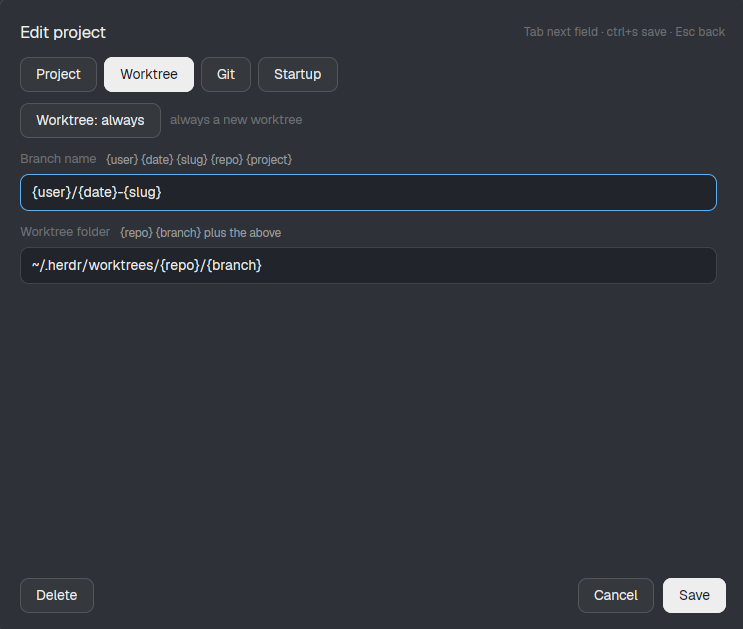
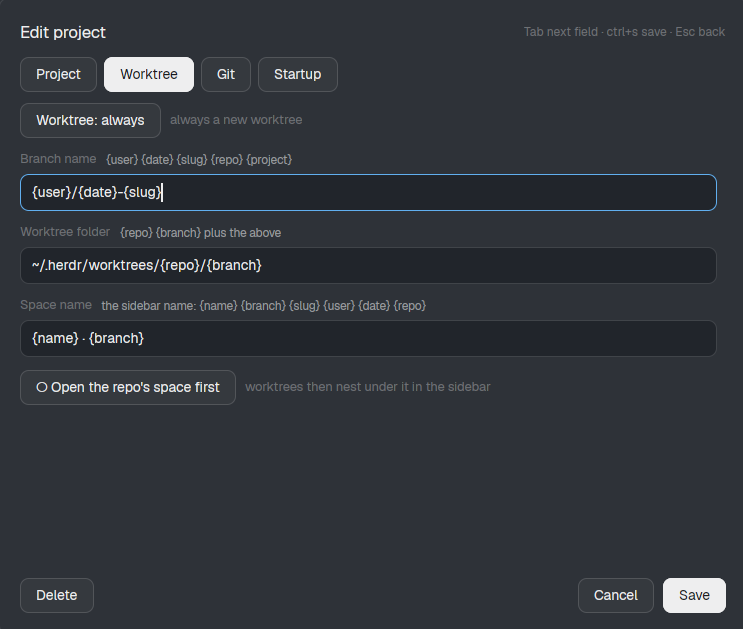
Add worktree space name and an option to open the repo's space first
Each project's Worktree section gets a Space name template and an Open the repo's space first toggle, so worktree spaces can be named shorter and nest under their repo in the sidebar. Both default to the old behavior. Adds tests, a README section and screenshot, and RECIPE.md updates.

Changed region(s): [[0.031, 0.4833, 0.5882, 0.5437], [0.031, 0.6041, 0.6501, 0.6343]]

diff --git a/mods/project-presets/main.js b/mods/project-presets/main.js
@@ -6,7 +6,7 @@ import { View, div } from "gpui-kit";
 import { v_flex, h_flex, InputState, Input, Scrollbar, VirtualListScrollHandle, v_virtual_list } from "gpui-base";
 import { knownAgents, window, theme, props, closeOverlay, run, pickFolder, shared, setShared, home } from "herdr";
 import { loadConfig, saveConfig } from "./config.js";
-import { inspect, projectFolder, previewBranch, createWorktree, listWorktrees, removeWorktree, prepareMain, runSetup, findSpace, launch } from "./git.js";
+import { inspect, projectFolder, previewBranch, createWorktree, worktreeSpaceName, listWorktrees, removeWorktree, prepareMain, runSetup, findSpace, launch } from "./git.js";
 import { readDemo } from "./demo.js";
 import { initLog, log, logError } from "./log.js";
 import { fuzzy, blankProject, shortHome, splitList, joinList, basename } from "./lib.js";
@@ -21,7 +21,7 @@ const ROW = 48;
 const SECTIONS = [["project", "Project"], ["worktree", "Worktree"], ["git", "Git"], ["startup", "Startup"]];
 const SECTION_FIELDS = {
   project: ["name", "path", "group"],
-  worktree: ["branchTemplate", "root"],
+  worktree: ["branchTemplate", "root", "spaceName"],
   git: ["remote", "base"],
   startup: ["agent", "args", "prompt", "setup", "tabs"],
 };
@@ -35,6 +35,7 @@ const TEXT = [
   ["group", "Group", (p) => p.group, (p, v) => (p.group = v)],
   ["branchTemplate", "Branch name", (p) => p.worktree.branchTemplate, (p, v) => (p.worktree.branchTemplate = v), "{user} {date} {slug} {repo} {project}"],
   ["root", "Worktree folder", (p) => p.worktree.root, (p, v) => (p.worktree.root = v), "{repo} {branch} plus the above"],
+  ["spaceName", "Space name", (p) => p.worktree.spaceName, (p, v) => (p.worktree.spaceName = v), "the sidebar name: {name} {branch} {slug} {user} {date} {repo}"],
   ["remote", "Remote", (p) => p.git.remote, (p, v) => (p.git.remote = v)],
   ["base", "Base branch", (p) => p.git.base, (p, v) => (p.git.base = v)],
   ["agent", "Agent command", (p) => p.startup.agent, (p, v) => (p.startup.agent = v), "pick above or type one; empty: plain shell"],
@@ -196,7 +197,7 @@ export default class ProjectPresets extends View {
         if (worktree) {
           const wt = await createWorktree(p, slugText, log);
           folder = wt.folder;
-          name = `${p.name} · ${wt.branch}`;
+          name = worktreeSpaceName(p, wt);
           await runSetup(p, folder, log);
         } else if (existing) {
           setShared(RECENT, { ...(shared(RECENT) ?? {}), [p.path]: Date.now() });
@@ -580,6 +581,10 @@ export default class ProjectPresets extends View {
           .child(div().text_size(11.5).text_color(t.dim).child(MODE_HELP[d.worktree.mode])),
         field("branchTemplate"),
         field("root"),
+        field("spaceName"),
+        h_flex().pt(12).gap(8).items_center()
+          .child(toggle("pp-repospace", "Open the repo's space first", d.worktree.repoSpace, (v) => (d.worktree.repoSpace = v)))
+          .child(div().flex_1().min_w(0).text_size(11.5).text_color(t.dim).child("worktrees then nest under it in the sidebar")),
       ],
       git: () => [
         h_flex().pt(10).gap(8)

diff --git a/mods/project-presets/git.js b/mods/project-presets/git.js
@@ -50,6 +50,7 @@ export async function templateVars(project, slugText) {
     slug: slug(slugText) || timeStamp(),
     repo: basename(top),
     project: slug(project.name),
+    name: project.name,
   };
 }
 
@@ -102,7 +103,7 @@ export async function createWorktree(project, slugText, log) {
   log(`git worktree add ${branch} from ${base}…`);
   const r = await git(folder, ["worktree", "add", "--no-track", "-b", branch, path, base]);
   if (r.code !== 0) throw new Error(out({ stdout: r.stderr }) || "git worktree add failed");
-  return { folder: path, branch };
+  return { folder: path, branch, vars };
 }
 
 /** The main checkout, brought up to date when fast-forward is on and that's safe. */
@@ -134,6 +135,12 @@ export async function runSetup(project, folder, log) {
 export const findSpace = (project) => spaces().find((s) => !s.machine && s.folder === projectFolder(project));
 
 /** Opens the folder as a space, with the project's agent, first prompt and extra tabs. */
+/** The sidebar name for a worktree's space, from the project's template; falls back to "<name> · <branch>". */
+export function worktreeSpaceName(project, wt) {
+  const name = expand(project.worktree.spaceName, { ...wt.vars, branch: wt.branch }).trim();
+  return name || `${project.name} · ${wt.branch}`;
+}
+
 export async function launch(project, folder, name) {
   const { agent, args, prompt, promptMode, tabs } = project.startup;
   const argv = agent.trim() ? [...splitArgs(agent), ...splitArgs(args)] : [];
@@ -142,6 +149,12 @@ export async function launch(project, folder, name) {
   // that read a positional argument as a subcommand).
   const send = argv.length && prompt && promptMode === "send";
   const known = send ? new Set((await liveTerminals()).map((t) => t.address)) : null;
+  // Herdr nests a worktree's space under its repo's own space, but only while that one is open.
+  const main = projectFolder(project);
+  if (project.worktree.repoSpace && folder !== main && !findSpace(project)) {
+    log("debug", "opening the repo's space first", { main });
+    run("space.new", { name: project.name, folder: main });
+  }
   log("debug", "launch", { folder, name, argv, promptMode, tabs });
   run("space.new", { name, folder, ...(argv.length ? { argv, ...(prompt && !send ? { task: prompt } : {}) } : {}) });
   const space = focused()?.space;

diff --git a/mods/project-presets/lib.js b/mods/project-presets/lib.js
@@ -69,7 +69,13 @@ export function blankProject(path = "") {
     path,
     group: "",
     pinned: false,
-    worktree: { mode: "ask", branchTemplate: "{user}/{date}-{slug}", root: "~/.herdr/worktrees/{repo}/{branch}" },
+    worktree: {
+      mode: "ask",
+      branchTemplate: "{user}/{date}-{slug}",
+      root: "~/.herdr/worktrees/{repo}/{branch}",
+      spaceName: "{name} · {branch}",
+      repoSpace: false,
+    },
     git: { fetch: true, remote: "origin", base: "main", fastForward: false },
     startup: { agent: "", args: "", prompt: "", promptMode: "arg", setup: [], tabs: [] },
   };

diff --git a/RECIPE.md b/RECIPE.md
@@ -15,7 +15,7 @@ A popup, 680px wide, top-aligned 40px down, up to 80% of the window high, on the
 
 Ordering with an empty search: projects with an open space, pinned ones, recently used, then by name. With a query: best fuzzy match first (subsequence match on name, group and folder name; consecutive and word-start letters score higher).
 
-The editor replaces the list in the same popup, in four sections chosen by buttons under the title. **Project:** Name, Folder (+ Browse…), Group, Pin to top. **Worktree:** the mode button (ask / always / never), Branch name, Worktree folder. **Git:** Fetch first, Fast-forward checkout, Remote, Base branch. **Startup:** an Agent button per installed agent from `knownAgents()` plus Shell, Agent command, Agent arguments, First prompt with a Prompt delivery button, Setup commands, Extra tabs. Buttons: Delete (asks for a second click), Cancel, Save. Tab moves between the fields of the current section.
+The editor replaces the list in the same popup, in four sections chosen by buttons under the title. **Project:** Name, Folder (+ Browse…), Group, Pin to top. **Worktree:** the mode button (ask / always / never), Branch name, Worktree folder, Space name, and an "Open the repo's space first" toggle. **Git:** Fetch first, Fast-forward checkout, Remote, Base branch. **Startup:** an Agent button per installed agent from `knownAgents()` plus Shell, Agent command, Agent arguments, First prompt with a Prompt delivery button, Setup commands, Extra tabs. Buttons: Delete (asks for a second click), Cancel, Save. Tab moves between the fields of the current section.
 
 ## How it behaves
 
@@ -29,6 +29,7 @@ The editor replaces the list in the same popup, in four sections chosen by butto
 - Worktree creation: `git fetch <remote>` (a failure is logged and the local ref is used), then `git worktree add --no-track -b <branch> <folder> <remote>/<base>`. A taken branch or folder gets `-2`, `-3`… up to `-20`.
 - Fast-forward only happens on the checkout when it is on the base branch, clean, and can fast-forward.
 - **Worktree cleanup** has a filter box (fuzzy, on branch and folder name) over a scrolling list of the repo's linked worktrees (`git worktree list --porcelain`, main checkout excluded) with the branch, folder, and badges: `open` (a space shows it), `uncommitted`, `locked`, `merged` (branch is an ancestor of `<remote>/<base>`) or `unmerged`. Enter or a click ticks the highlighted row; m (or Tick merged) ticks every merged, clean, unlocked one, and again unticks them; r (or the Remove button, labelled with the count) asks for confirmation and the second press removes the ticked ones with `git worktree remove` (never `--force`, so dirty ones are refused and reported). A merged branch is then deleted with `git branch -d`; an unmerged one is kept. The space showing a removed worktree is closed with `space.close`.
+- **Space name and repo space** (worktree modes only): the new worktree's space is named from `worktree.spaceName` (variables `{name}` the project's display name, `{branch}`, `{slug}`, `{user}`, `{date}`, `{repo}`; an empty result falls back to `<name> · <branch>`). When `worktree.repoSpace` is on and no space shows the project's main checkout, a plain-shell space named after the project is opened on it first, then the worktree space, which herdr nests under it. If the repo's space is already open nothing extra is created.
 - **Delete** (the button or **d**) shows "Remove \"<name>\" from the list?" in red; pressing d or clicking Delete again removes the project from `project-presets.json`, any other key cancels. The folder and its worktrees are left alone. The editor's Delete button has its own two-click confirmation.
 - Selecting a project records it in shared state `project-presets.recent` for ordering.
 
@@ -42,7 +43,8 @@ The editor replaces the list in the same popup, in four sections chosen by butto
 { "projects": [{
   "name": "API", "path": "~/code/api", "group": "work", "pinned": true,
   "worktree": { "mode": "ask|always|never", "branchTemplate": "{user}/{date}-{slug}",
-                "root": "~/.herdr/worktrees/{repo}/{branch}" },
+                "root": "~/.herdr/worktrees/{repo}/{branch}",
+                "spaceName": "{name} · {branch}", "repoSpace": false },
   "git": { "fetch": true, "remote": "origin", "base": "main", "fastForward": false },
   "startup": { "agent": "claude", "args": "--model opus", "prompt": "", "promptMode": "arg|send",
                "setup": ["npm ci"], "tabs": ["lazygit"] }
@@ -64,6 +66,7 @@ The editor replaces the list in the same popup, in four sections chosen by butto
 - A failed setup command stops the remaining ones but the space still opens.
 - The first prompt goes to the agent as a command-line argument (`space.new {task}`) by default, which `hermes` and some other agents reject as an unknown subcommand. The Prompt button switches the project to "typed after start": the agent is started bare and the prompt is sent with `hc send` once `hc ls --json` shows it idle (6 s after start if it never reports a status, never while blocked). Picking the Hermes agent button sets this automatically.
 - The agent command and its arguments are split into words, with '…' and "…" keeping spaces together; there's no other shell syntax. The first prompt is only sent when an agent is set.
+- Herdr nests a worktree space under its repo's space only while a space on the main checkout is open (its sidebar groups by git common dir). With `repoSpace` off and no such space open, worktree spaces sit at the top level. Closing the repo's space later makes its worktrees top-level again.
 - Extra tabs rely on the new space being the focused one right after `space.new`; the terminal for a typed prompt is found as the new live terminal that starts in the new folder, so two launches into one folder at once could confuse it.
 - Local folders only: no `machine` field yet.
 - Click handling and `cmd` shortcuts on macOS are untested: Herdr may use some cmd keys itself (e.g. cmd-n), so the buttons are the fallback.
@@ -79,6 +82,7 @@ The editor replaces the list in the same popup, in four sections chosen by butto
 - Selecting the same project again with `always` gives `…-2`, not an error.
 - Worktrees → m → r twice (with alt, ctrl or cmd held) removes merged, clean worktrees and their branches, closes their spaces, and refuses one with uncommitted changes.
 - Delete asks once, then removes the project from the file.
+- With "Open the repo's space first" on, opening a worktree for a project with no open space creates a space named after the project and, under it, the worktree space; with the worktree's Space name set to `{slug}` the nested row shows only the slug. Opening a second worktree creates no second repo space.
 - With mode `never`, Enter focuses an already-open space instead of making another.
 - With 15 or more projects the list scrolls with the wheel and a scrollbar, the arrow keys keep the highlight in view, a single click only highlights, and a double-click opens.
 - The editor's four section buttons switch between Project, Worktree, Git and Startup; Save writes every section's fields.

diff --git a/README.md b/README.md
@@ -36,6 +36,15 @@ When it finishes you land in a new space on the new worktree, with the agent alr
 
 ![The result: a new space on cgill27/2026-10-30-add-search-page with Claude Code running and the first prompt answered](docs/screenshots/15-result.png)
 
+### Keeping the sidebar tidy
+
+Herdr nests a worktree's space under its repository's own space, but only while the repo's space is open. Two settings in a project's **Worktree** section control how that looks:
+
+- **Open the repo's space first:** when you open a worktree and the project's main checkout isn't open as a space, the mod opens it first (a plain shell, no agent). The new worktree space then nests under it, so each project is one row with its worktrees beneath it. Off by default.
+- **Space name:** a template for the worktree space's name. The default `{name} · {branch}` gives `Docs Site · cgill27/2026-10-30-add-search-page`; once nested, `{slug}` (just `add-search-page`) or `{branch}` is shorter and easier to read. You can use `{name}`, `{branch}`, `{slug}`, `{user}`, `{date}` and `{repo}`.
+
+![A worktree space nested under its repo's space, named by its slug](docs/screenshots/16-nested-worktree.png)
+
 ### Adding and editing a project
 
 Settings are split into four sections.
